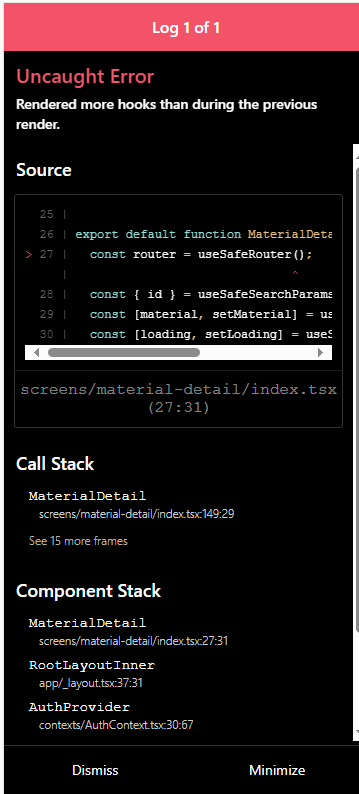
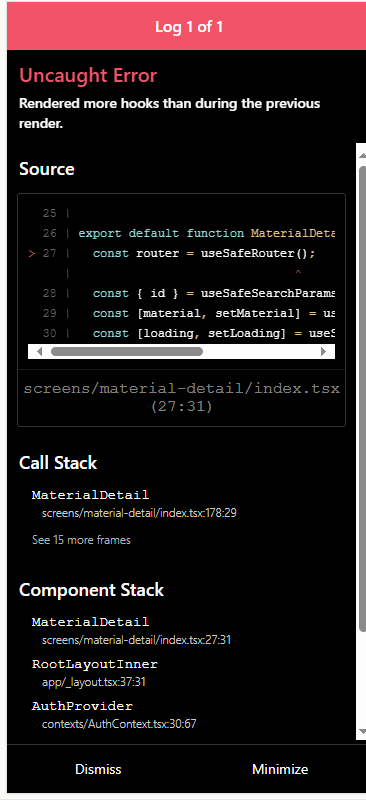
fix: 修复物料详情页React Hooks调用顺序错误

Changed region(s): [[0.0, 0.0, 1.0, 1.0], [0.429, 0.0, 0.6128, 0.0605]]

diff --git a/client/screens/material-detail/index.tsx b/client/screens/material-detail/index.tsx
@@ -92,6 +92,16 @@ export default function MaterialDetail() {
     }, [id, fetchMaterialDetail])
   );
 
+  // 使用 useMemo 优化计算 - 必须在条件返回之前
+  const isLowStock = useMemo(() => {
+    if (!material) return false;
+    return material.stock_quantity <= (material.warning_stock || 0);
+  }, [material?.stock_quantity, material?.warning_stock]);
+
+  const handleBack = useCallback(() => {
+    router.back();
+  }, [router]);
+
   if (loading) {
     return (
       <Screen>
@@ -173,16 +183,6 @@ export default function MaterialDetail() {
       </Screen>
     );
   }
-
-  // 使用 useMemo 优化计算
-  const isLowStock = useMemo(() => {
-    if (!material) return false;
-    return material.stock_quantity <= (material.warning_stock || 0);
-  }, [material?.stock_quantity, material?.warning_stock]);
-
-  const handleBack = useCallback(() => {
-    router.back();
-  }, [router]);
 
   return (
     <Screen>
